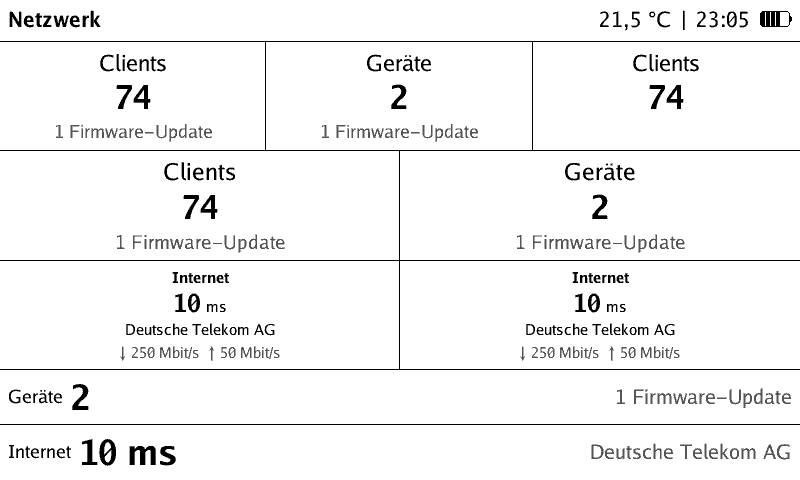
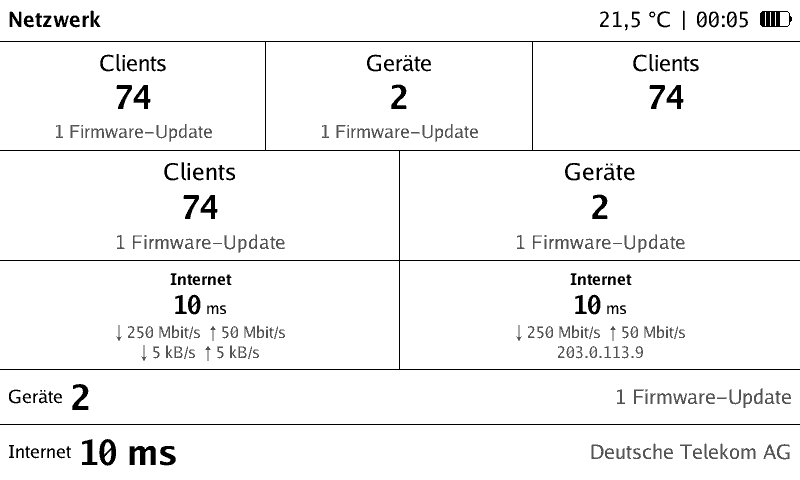
Keep the UniFi WAN speed and traffic lines visible [#499] (#500)
- Cover the speed test result in the signature, so a new result redraws
  a cached page instead of waiting for the entry to expire.
- Leave the provider name out when two detail lines are requested: the
  provider is the least important line and the design drops the details
  first.
- Regenerate the network page screenshot and raise the plugin version.

Closes #499

Changed region(s): [[0.6562, 0.5625, 0.875, 0.75], [0.1562, 0.5625, 0.375, 0.75], [0.875, 0.0312, 0.9062, 0.0625]]

diff --git a/plugins/cmd/unifi/status_test.go b/plugins/cmd/unifi/status_test.go
@@ -120,6 +120,33 @@ func TestSignatureCoversISPName(t *testing.T) {
 	}
 }
 
+func TestSignatureCoversSpeedtest(t *testing.T) {
+	last, down, up := int64(1795810000), 250.5, 50.2
+	base := snapshot{
+		loaded: true, site: siteInfo{ID: "site"},
+		wan: healthSubsystem{Status: "ok", ISPName: "Telekom"},
+		www: healthSubsystem{Status: "ok", Latency: int64Ptr(10),
+			SpeedtestLastRun: &last, XputDown: &down, XputUp: &up},
+	}
+	faster, otherUp := down+1, up+1
+	for _, c := range []struct {
+		name string
+		www  healthSubsystem
+	}{
+		{"download", healthSubsystem{Status: "ok", Latency: int64Ptr(10),
+			SpeedtestLastRun: &last, XputDown: &faster, XputUp: &up}},
+		{"upload", healthSubsystem{Status: "ok", Latency: int64Ptr(10),
+			SpeedtestLastRun: &last, XputDown: &down, XputUp: &otherUp}},
+		{"absent", healthSubsystem{Status: "ok", Latency: int64Ptr(10)}},
+	} {
+		other := base
+		other.www = c.www
+		if base.signature() == other.signature() {
+			t.Errorf("the signature ignores the %s of the speed test", c.name)
+		}
+	}
+}
+
 func TestOfflineCount(t *testing.T) {
 	snap := snapshot{loaded: true, devices: []device{
 		online("A"),

diff --git a/plugins/cmd/unifi/draw_test.go b/plugins/cmd/unifi/draw_test.go
@@ -255,6 +255,28 @@ func TestRenderWANTooSmall(t *testing.T) {
 	}
 }
 
+func TestRenderWANTwoDetailsDropTheProvider(t *testing.T) {
+	p := renderedPlugin()
+	last, down, up := int64(1795810000), 250.5, 50.2
+	p.snap.www.SpeedtestLastRun, p.snap.www.XputDown, p.snap.www.XputUp = &last, &down, &up
+	w := wanWidget(400, 120)
+	w.Args = map[string]any{"traffic": true}
+	withName := renderStatus(t, p, statusRequest("de"), w, 4)
+	p.snap.wan.ISPName = ""
+	if withoutName := renderStatus(t, p, statusRequest("de"), w, 4); !bytes.Equal(withName, withoutName) {
+		t.Error("two detail lines still draw the provider name")
+	}
+
+	// One detail line keeps the provider.
+	p.snap.wan.ISPName = "Deutsche Telekom AG"
+	w.Args = nil
+	telekom := renderStatus(t, p, statusRequest("de"), w, 4)
+	p.snap.wan.ISPName = "Vodafone"
+	if vodafone := renderStatus(t, p, statusRequest("de"), w, 4); bytes.Equal(telekom, vodafone) {
+		t.Error("one detail line does not draw the provider name")
+	}
+}
+
 func TestRenderWANSpeed(t *testing.T) {
 	p := renderedPlugin()
 	w := wanWidget(400, 120)

diff --git a/plugins/cmd/unifi/draw.go b/plugins/cmd/unifi/draw.go
@@ -195,8 +195,15 @@ func drawWAN(img *image.Paletted, b image.Rectangle, snap snapshot, wanEnabled b
 		}
 		return drawRow(img, b, label, strings.TrimSpace(value+" "+unit), status, s, w)
 	}
+	// The design drops details before the caption. Two detail lines are worth
+	// more than the provider name, so the provider gives way instead of losing
+	// the second line.
+	caption := snap.wan.ISPName
+	if len(details) > 1 {
+		caption = ""
+	}
 	hero := design.Hero{
-		Label: label, Value: value, Unit: unit, Caption: snap.wan.ISPName,
+		Label: label, Value: value, Unit: unit, Caption: caption,
 		Details: details, Note: note, Align: render.Center, Rule: max(w.Style.Rule, 1),
 	}
 	if !design.DrawHero(img, b, hero, s) {

diff --git a/plugins/cmd/unifi/status.go b/plugins/cmd/unifi/status.go
@@ -178,6 +178,18 @@ func (sn snapshot) signature() string {
 	if sn.www.Latency != nil {
 		fmt.Fprintf(&b, "%d", *sn.www.Latency)
 	}
+	// The speed test result is shown as the detail line and as the download
+	// and upload values, so a new result must redraw the page. The live byte
+	// rates stay out: they change on every fetch, and a page redraws with
+	// them anyway.
+	b.WriteByte('|')
+	if sn.www.XputDown != nil {
+		fmt.Fprintf(&b, "%.2f", *sn.www.XputDown)
+	}
+	b.WriteByte('/')
+	if sn.www.XputUp != nil {
+		fmt.Fprintf(&b, "%.2f", *sn.www.XputUp)
+	}
 	b.WriteByte('|')
 	for _, d := range sn.devices {
 		fmt.Fprintf(&b, "%s=%s=%t;", d.Name, d.State, d.FirmwareUpdatable)

diff --git a/docs/plugins/unifi.md b/docs/plugins/unifi.md
@@ -130,9 +130,12 @@ notice.
 | `traffic` | Show the rate of the last fetch, default `false` |
 | `ip` | Show the public address of the connection, default `false` |
 
-The speed line sits below the provider: `↓ 250 Mbit/s  ↑ 50 Mbit/s`. It needs a
-speed test on the console. A 6 × 1 cell puts the label and the value on the left
-and the provider on the right. The note replaces the provider there. The
+The speed line shows the result of the last speed test: `↓ 250 Mbit/s
+↑ 50 Mbit/s`. It needs a speed test on the console. With `traffic` the widget
+adds the rate of the last fetch as a second line, and with `ip` the public
+address. Two detail lines replace the provider name: the provider is the least
+important line of the widget. A 6 × 1 cell puts the label and the value on the
+left and the provider on the right. The note replaces the provider there. The
 `speed`, `traffic` and `ip` arguments apply to the stacked cells; the wide row
 drops them.
 
